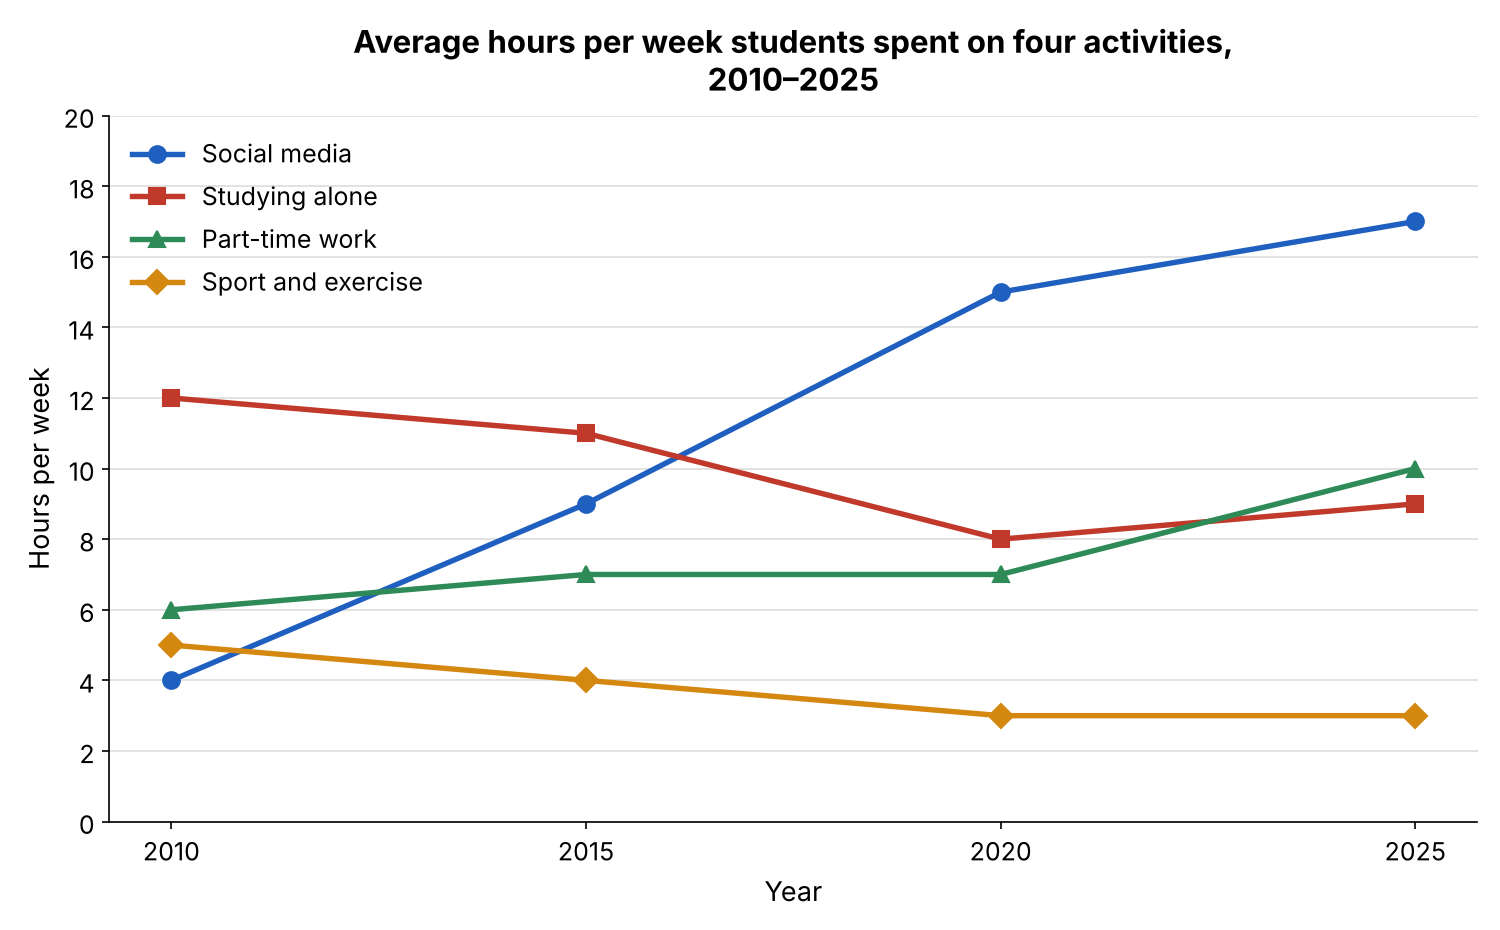
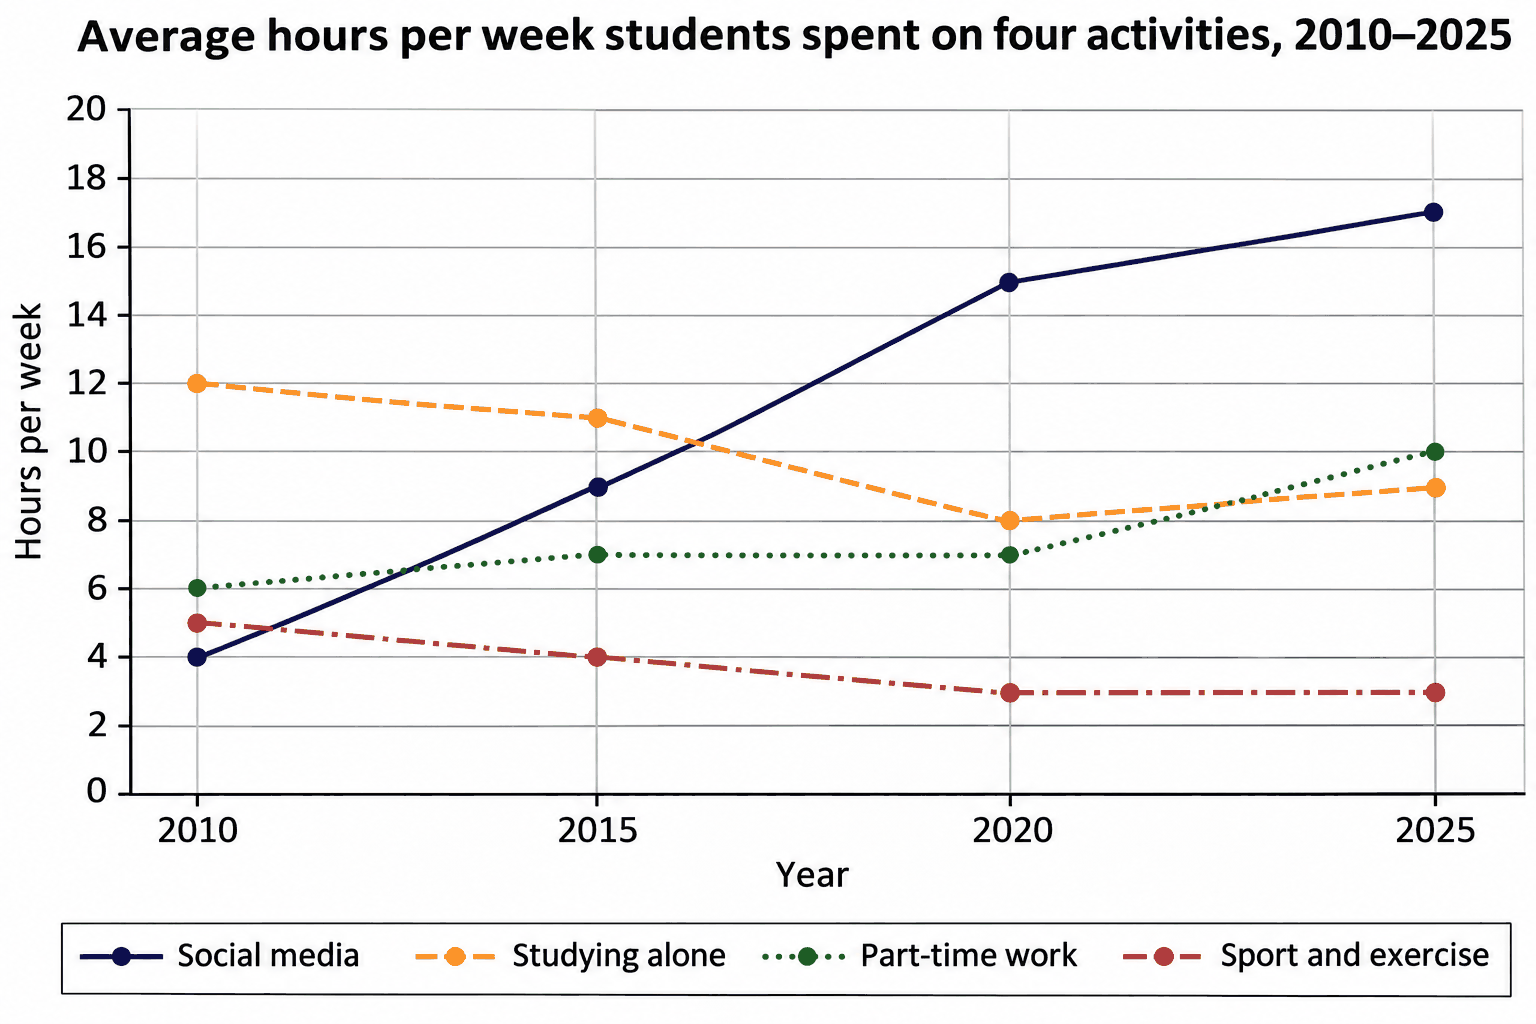
Final Exam: designed map (Listening 16-20) and line graph (Writing Task 1), same layout and data; drop an uncertain year from the last line of Part 4 (not a question)
Claude-Session: https://claude.ai/code/session_014qnRW5YXHjHxucP7VEseg9

diff --git a/backend/scripts/ielts/examPaper3Listening.js b/backend/scripts/ielts/examPaper3Listening.js
@@ -112,7 +112,7 @@ This system had a big effect on daily life. Because the floor was the warmest pl
 There were some problems, of course. The system used a lot of wood, and in some areas this led to the loss of forests. There was also a danger from the smoke. If the floor was cracked, gas could leak into the room, and this could be deadly.
 In the modern version, there is no smoke at all. Instead, hot water runs through plastic pipes under the floor. The water is heated by a boiler, usually powered by gas. Almost all apartments in Korea now have this kind of underfloor heating.
 Why is ondol so efficient? The main reason is that warm air rises. With most heaters, the warm air goes up to the ceiling, so the top of the room is hot but the floor stays cold. With ondol, the heat starts at the floor, where people are, so the whole room feels comfortable at a lower temperature. And because the floor holds heat for a long time, the room stays warm.
-Interestingly, underfloor heating has now become popular in other countries too, especially in northern Europe. And in 2023, ondol was officially recognised as part of Korea's national heritage.
+Interestingly, underfloor heating has now become popular in other countries too, especially in northern Europe. And today, ondol is officially recognised as part of Korea's cultural heritage.
 NARRATOR: That is the end of Part 4. You now have half a minute to check your answers.
 [PAUSE 30]
 NARRATOR: That is the end of the listening test.`;
